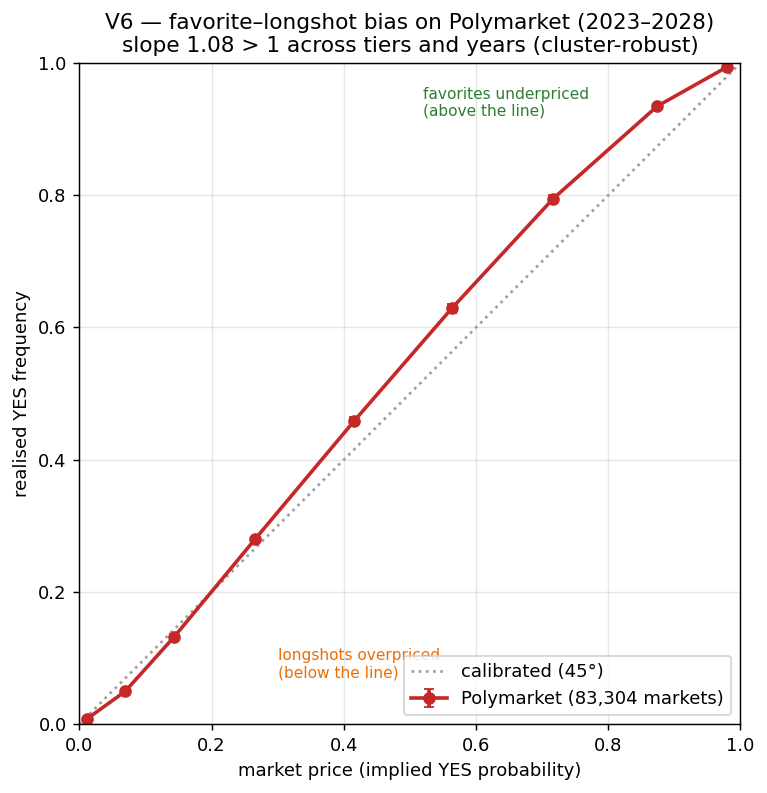
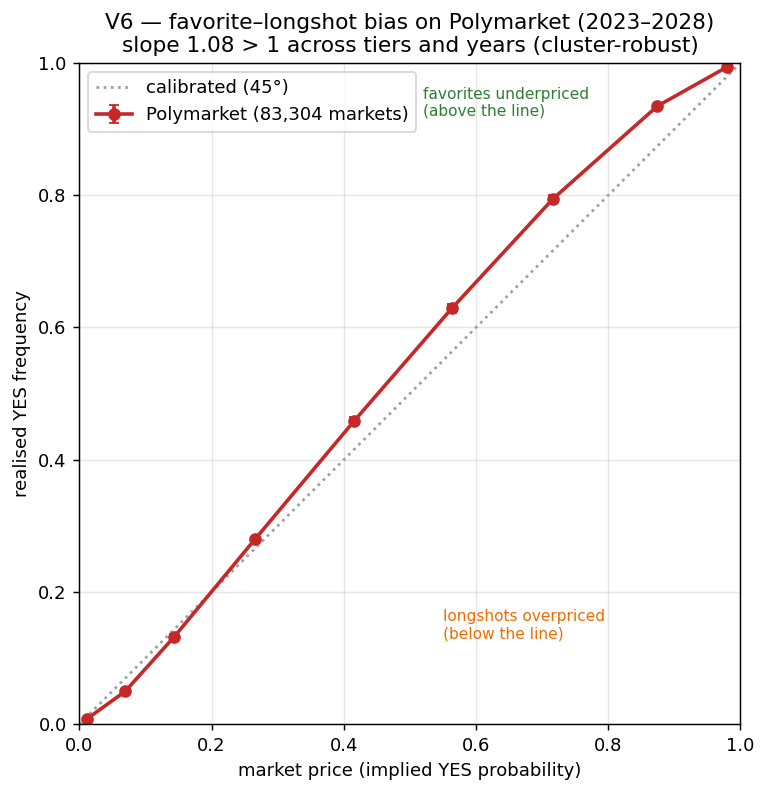
fix(figures): V6 move legend to upper-left so it no longer covers the longshot annotation
The "lower right" legend box overlapped the "longshots overpriced (below the line)"
annotation, hiding part of the text. The calibration curve hugs the diagonal, so both
the upper-left and lower-right triangles are empty: put the legend upper-left, the
longshot note lower-right, and keep the favorites note upper-right. All labels readable.

Changed region(s): [[0.3598, 0.7566, 0.9596, 0.9079], [0.1199, 0.0908, 0.5398, 0.1816]]

diff --git a/reports/make_figures.py b/reports/make_figures.py
@@ -194,7 +194,7 @@ def fig_v6_calibration() -> None:
     ax.plot([0, 1], [0, 1], color=GREY, ls=":", label="calibrated (45°)")
     ax.errorbar(mp, fr, yerr=se, fmt="o-", color="#c62828", lw=2, capsize=3,
                 label=f"Polymarket ({len(pm):,} markets)")
-    ax.text(0.30, 0.07, "longshots overpriced\n(below the line)", fontsize=8.5, color=AMBER)
+    ax.text(0.55, 0.13, "longshots overpriced\n(below the line)", fontsize=8.5, color=AMBER)
     ax.text(0.52, 0.92, "favorites underpriced\n(above the line)", fontsize=8.5, color=GREEN)
     ax.set_xlabel("market price (implied YES probability)")
     ax.set_ylabel("realised YES frequency")
@@ -203,7 +203,7 @@ def fig_v6_calibration() -> None:
     ax.set_xlim(0, 1)
     ax.set_ylim(0, 1)
     ax.set_aspect("equal")
-    ax.legend(loc="lower right")
+    ax.legend(loc="upper left")
     fig.tight_layout()
     fig.savefig(OUT / "v6_calibration.png", bbox_inches="tight")
     plt.close(fig)